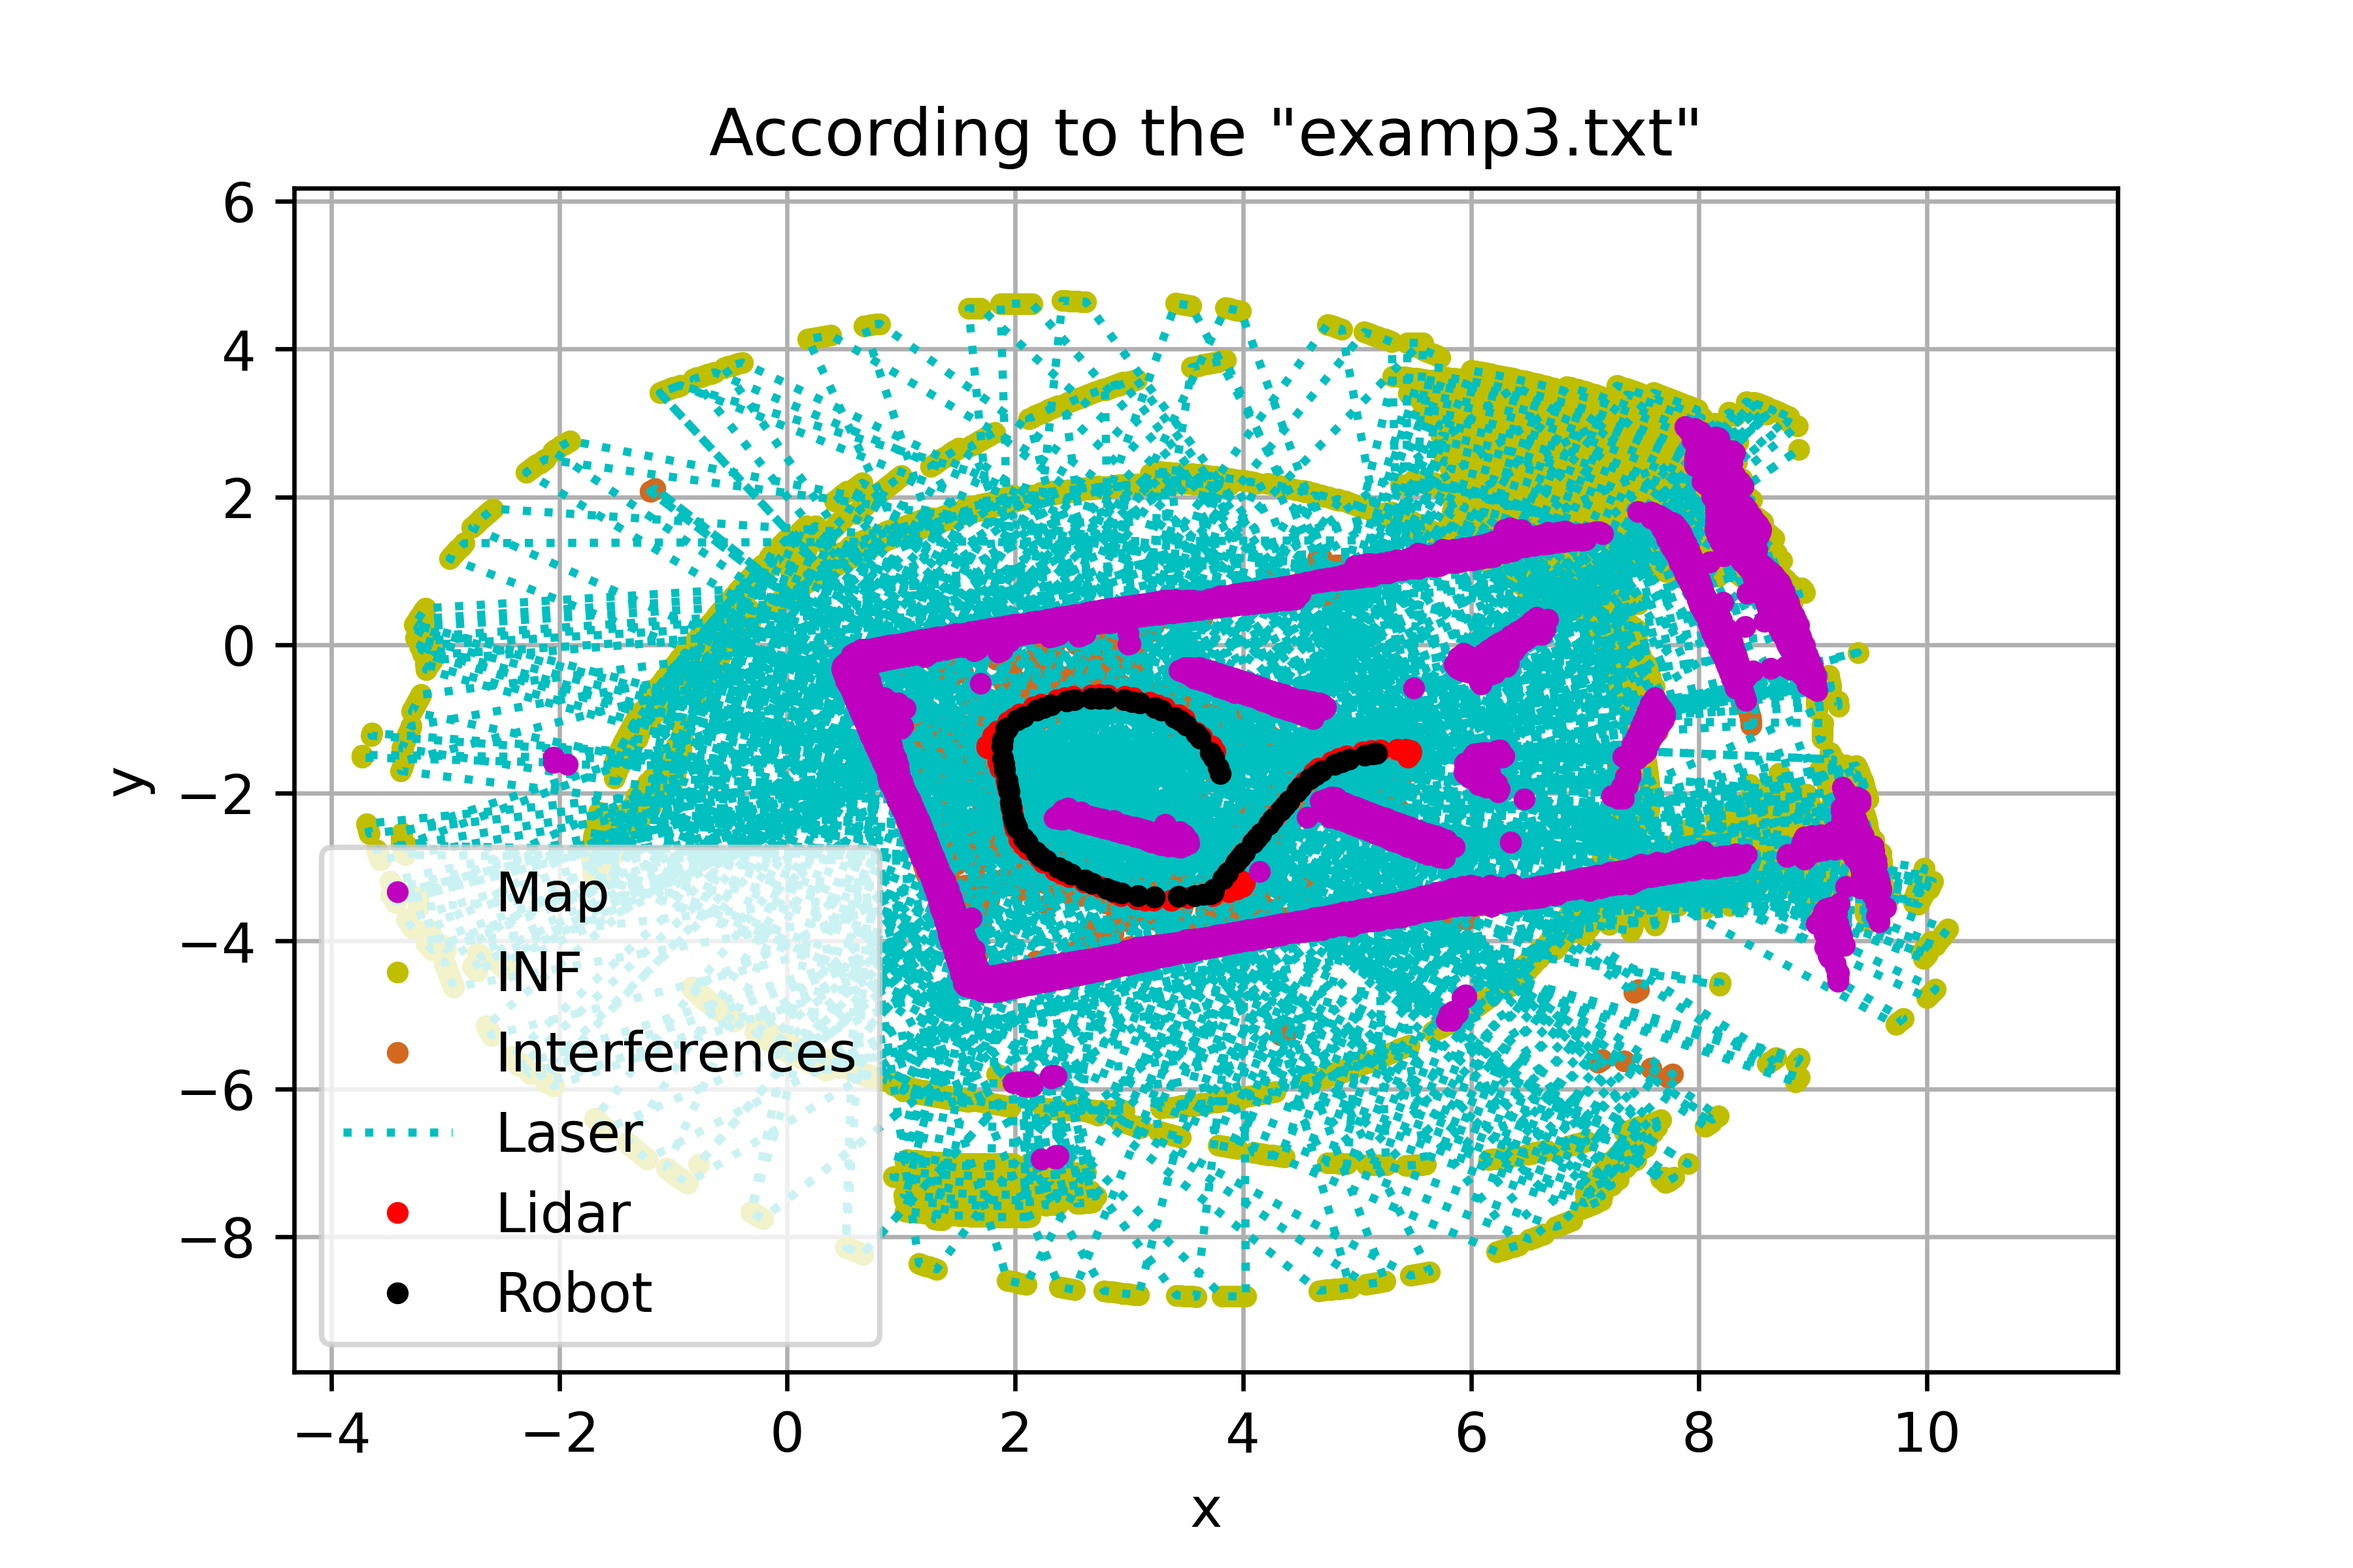
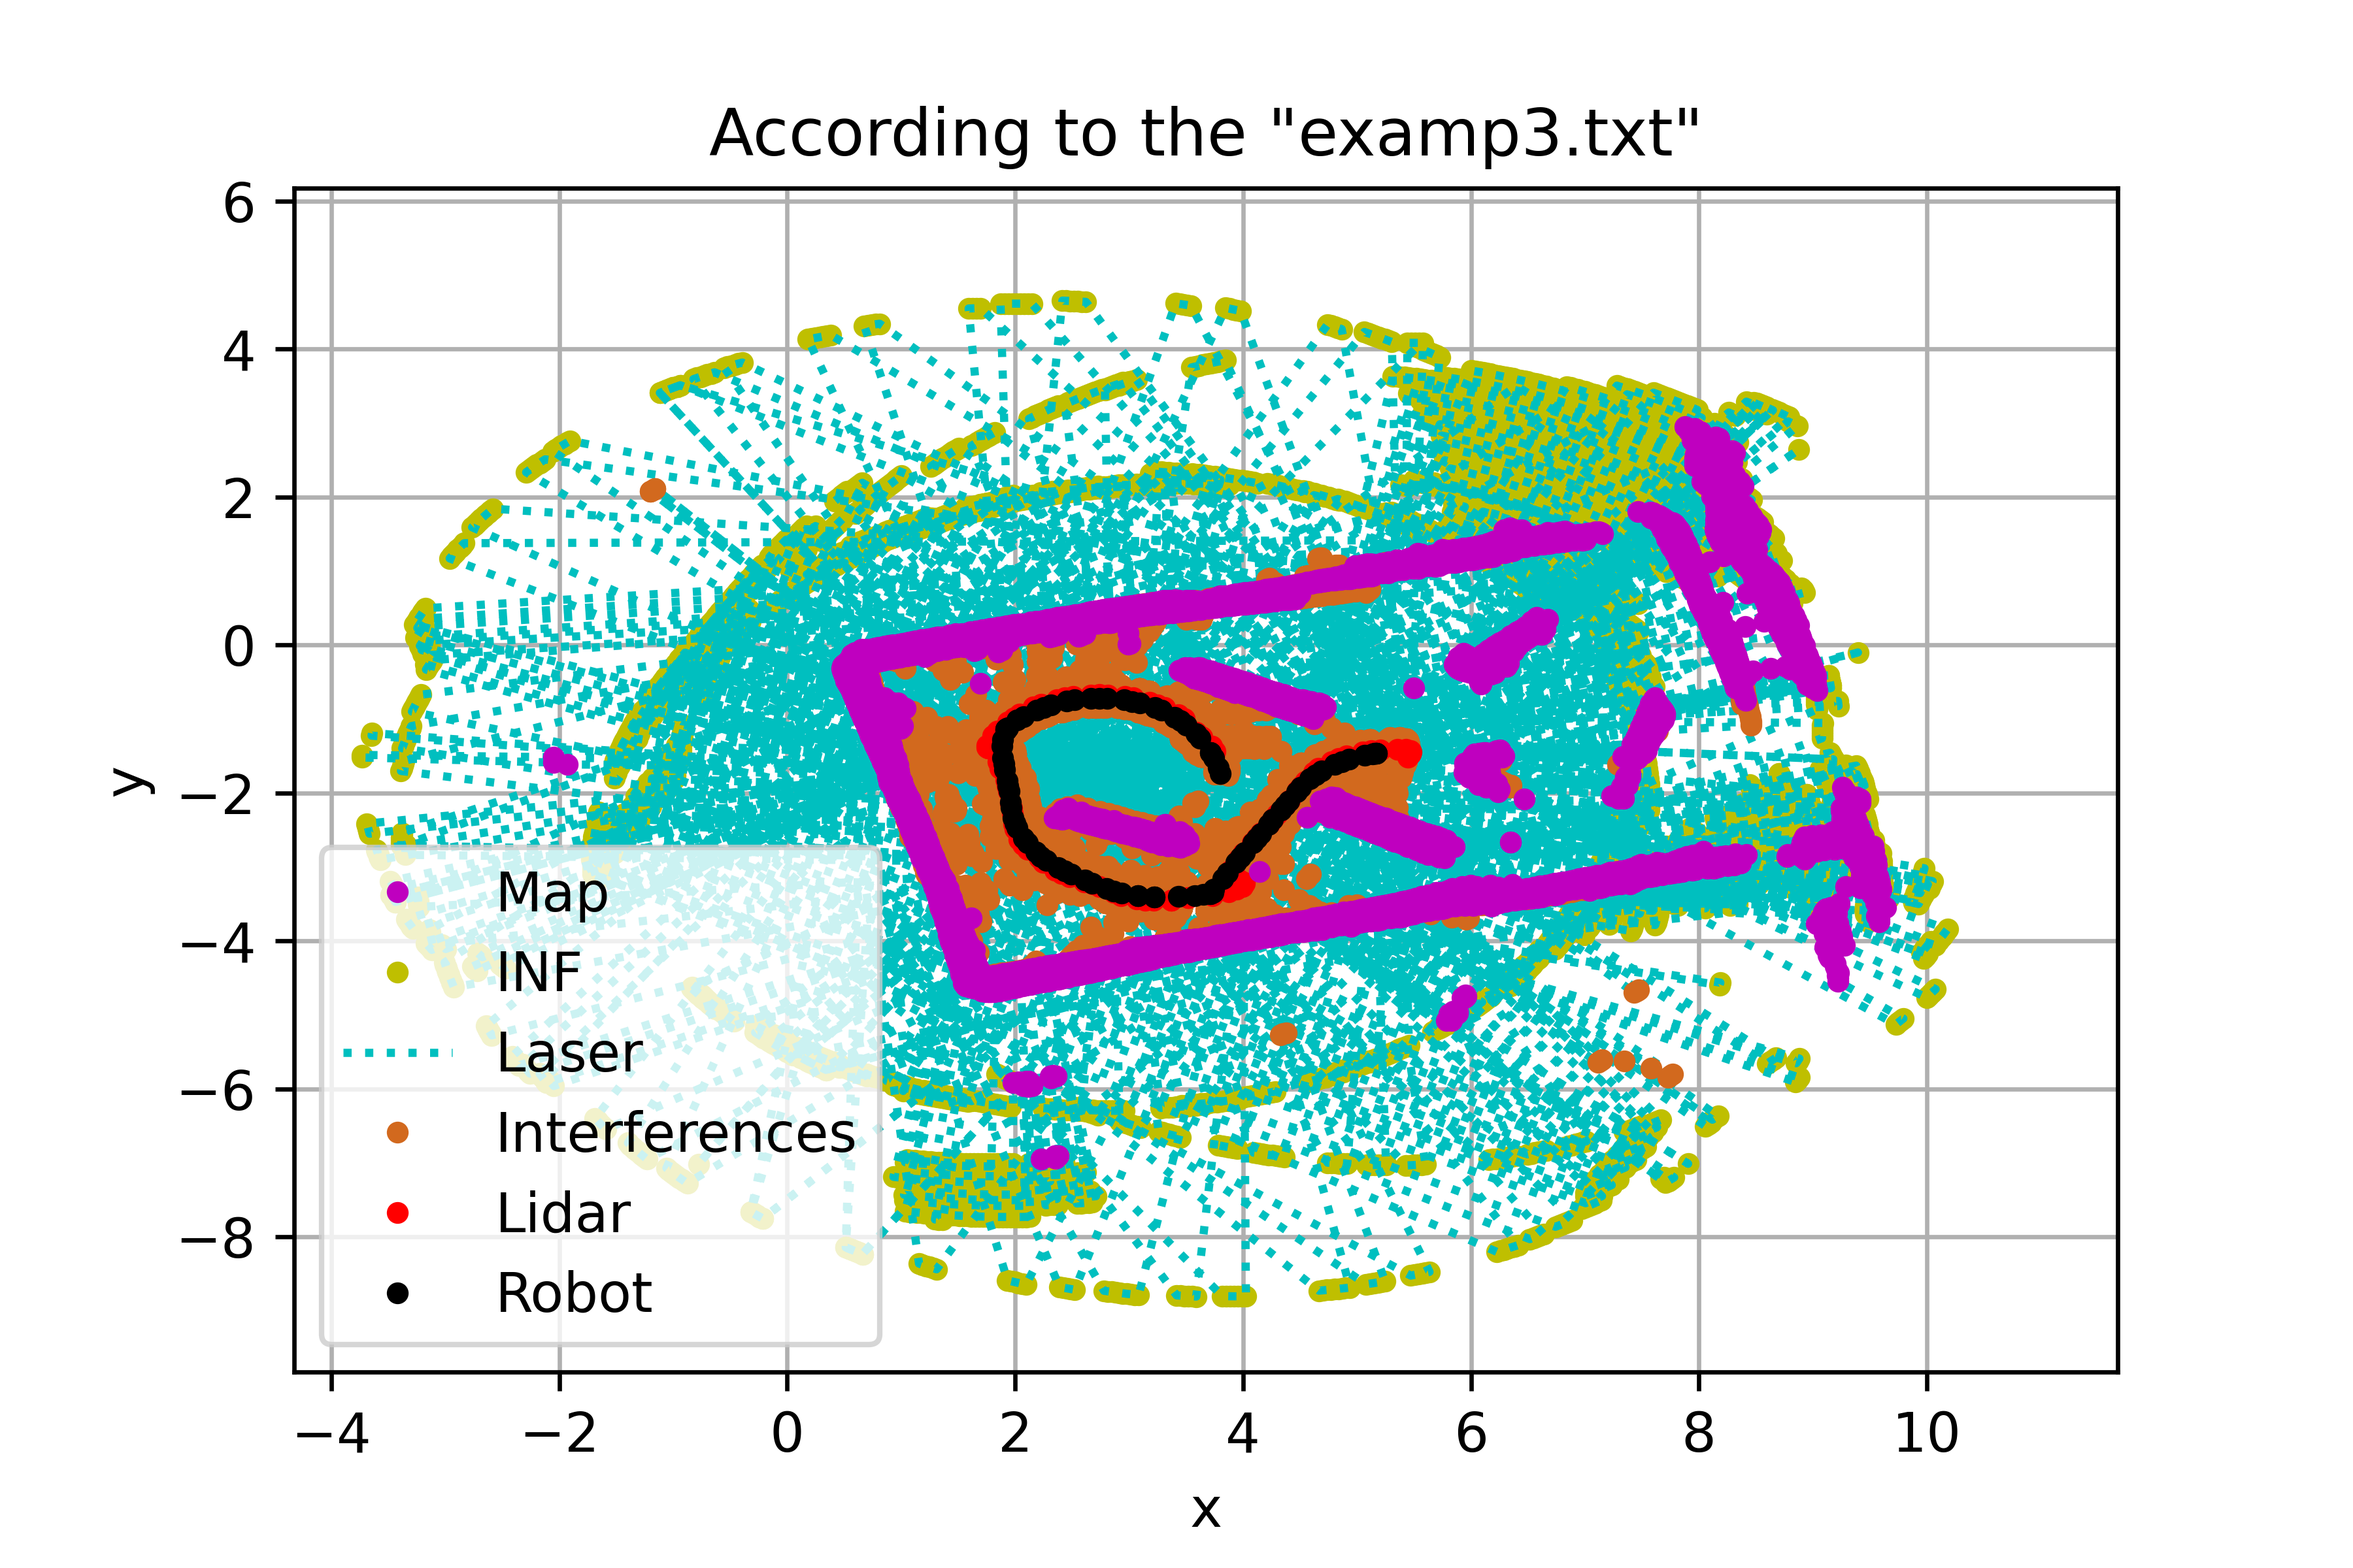
р4ХЪ\ hange the drawing order

diff --git a/main.py b/main.py
@@ -6,7 +6,7 @@ import os
 from PIL import Image
 import cv2
 
-data_path = 'examp14.txt'
+data_path = 'examp2.txt'
 main_dir = 'D:\\PyProjects\\Map_building\\'
 lidar_angle = 240  # угол обзора лидара в градусах
 threshold = 0.125  # сколько обзора в доле с каждого края закрывается самим
@@ -43,12 +43,6 @@ def create_by_index(old, mask):  # новый массив по индексам
     for ind in mask:
         b = np.append(b, [old[ind]])
     return b
-
-
-def rotation(x_old, y_old, angle):
-    x_new = x_old * math.cos(angle) + y_old * math.sin(angle)
-    y_new = y_old * math.cos(angle) - x_old * math.sin(angle)
-    return [x_new, y_new]
 
 
 g_center_bot = [df['X'].sum() / df.shape[0], df['Y'].sum() / df.shape[0]]
@@ -149,9 +143,10 @@ plt.xlabel('x')
 plt.ylabel('y')
 plt.plot(map_xy[:, 0], map_xy[:, 1], '.', color='m', label='Map', zorder=10)
 plt.plot(inf_xy[:, 0], inf_xy[:, 1], '.', color='y', label='INF')
+
+plt.plot(laser_xy[:, 0], laser_xy[:, 1], ':', color='c', label='Laser')
 plt.plot(interfer_xy[:, 0], interfer_xy[:, 1], '.', color='chocolate',
          label='Interferences')
-plt.plot(laser_xy[:, 0], laser_xy[:, 1], ':', color='c', label='Laser')
 plt.plot(lidar_xy[:, 0], lidar_xy[:, 1], '.', color='r',
          label='Lidar')  # лидар
 plt.plot(robot_xy[:, 0], robot_xy[:, 1], '.', color='k',
@@ -224,8 +219,9 @@ plt.xticks([])
 plt.yticks([])
 plt.xlim(g_center_turned[0] - 5.5, g_center_turned[0] + 5.5)
 plt.ylim(g_center_turned[1] - 5.5, g_center_turned[1] + 5.5)
-
 plt.savefig(main_dir + 'MAP_{}\\Map_RAW_turned.png'.format(data_path[:-4]),
             dpi=600)
+
+np.save(main_dir + 'MAP_{}\\Map_np_data'.format(data_path[:-4]), map_xy_turned)
 
 plt.show()
